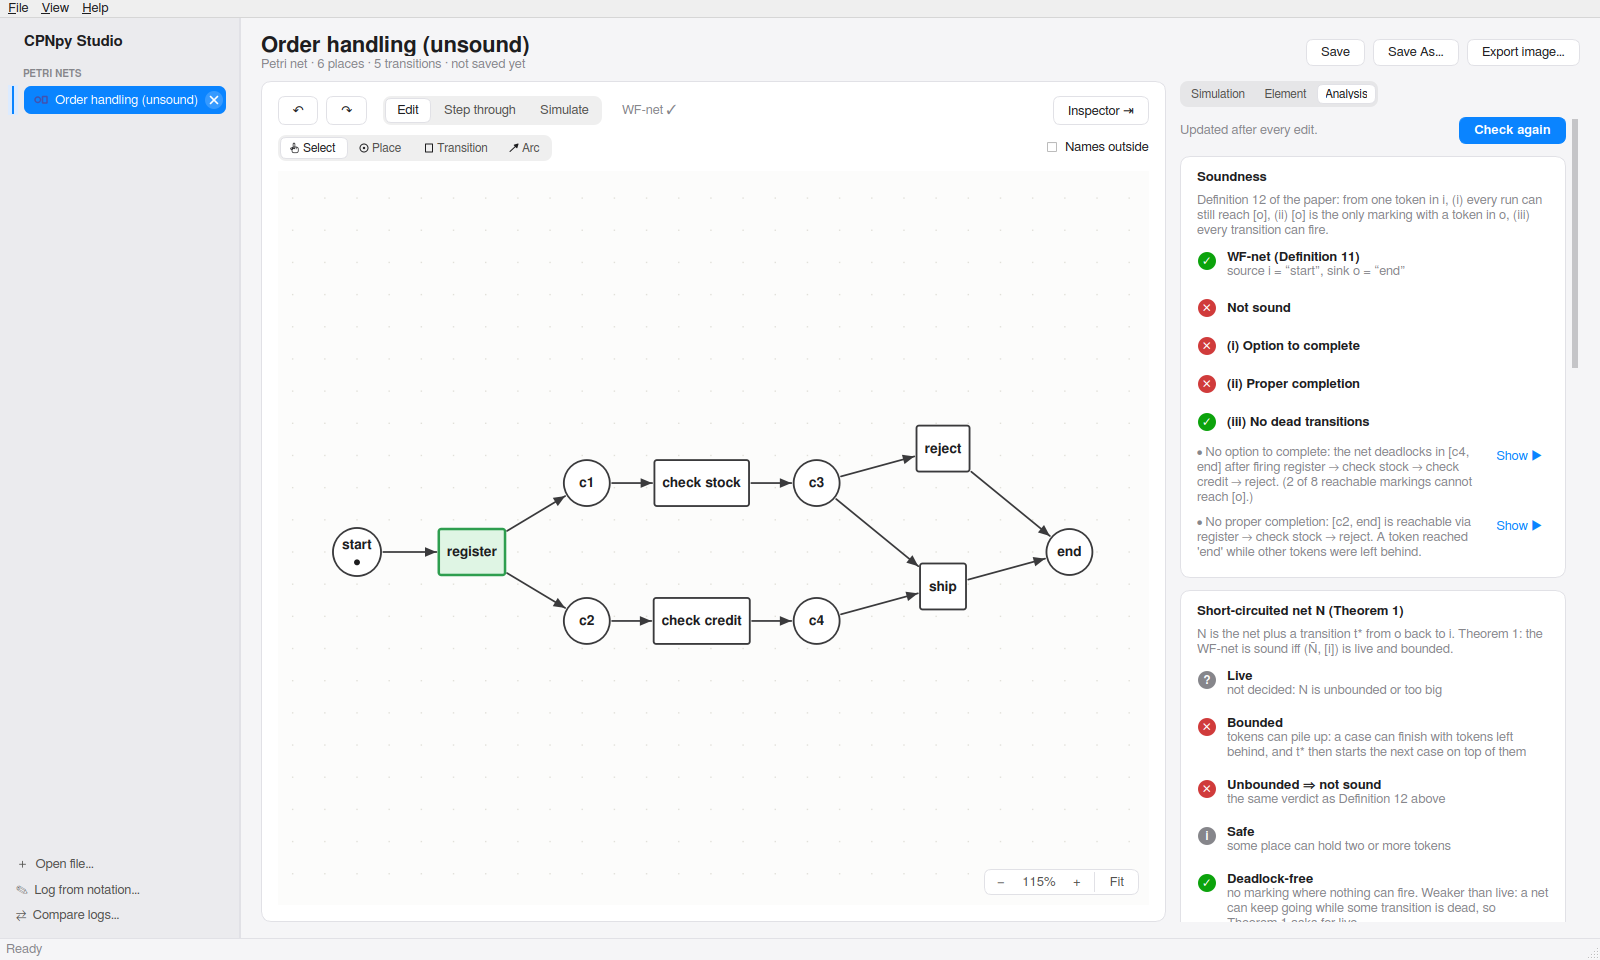
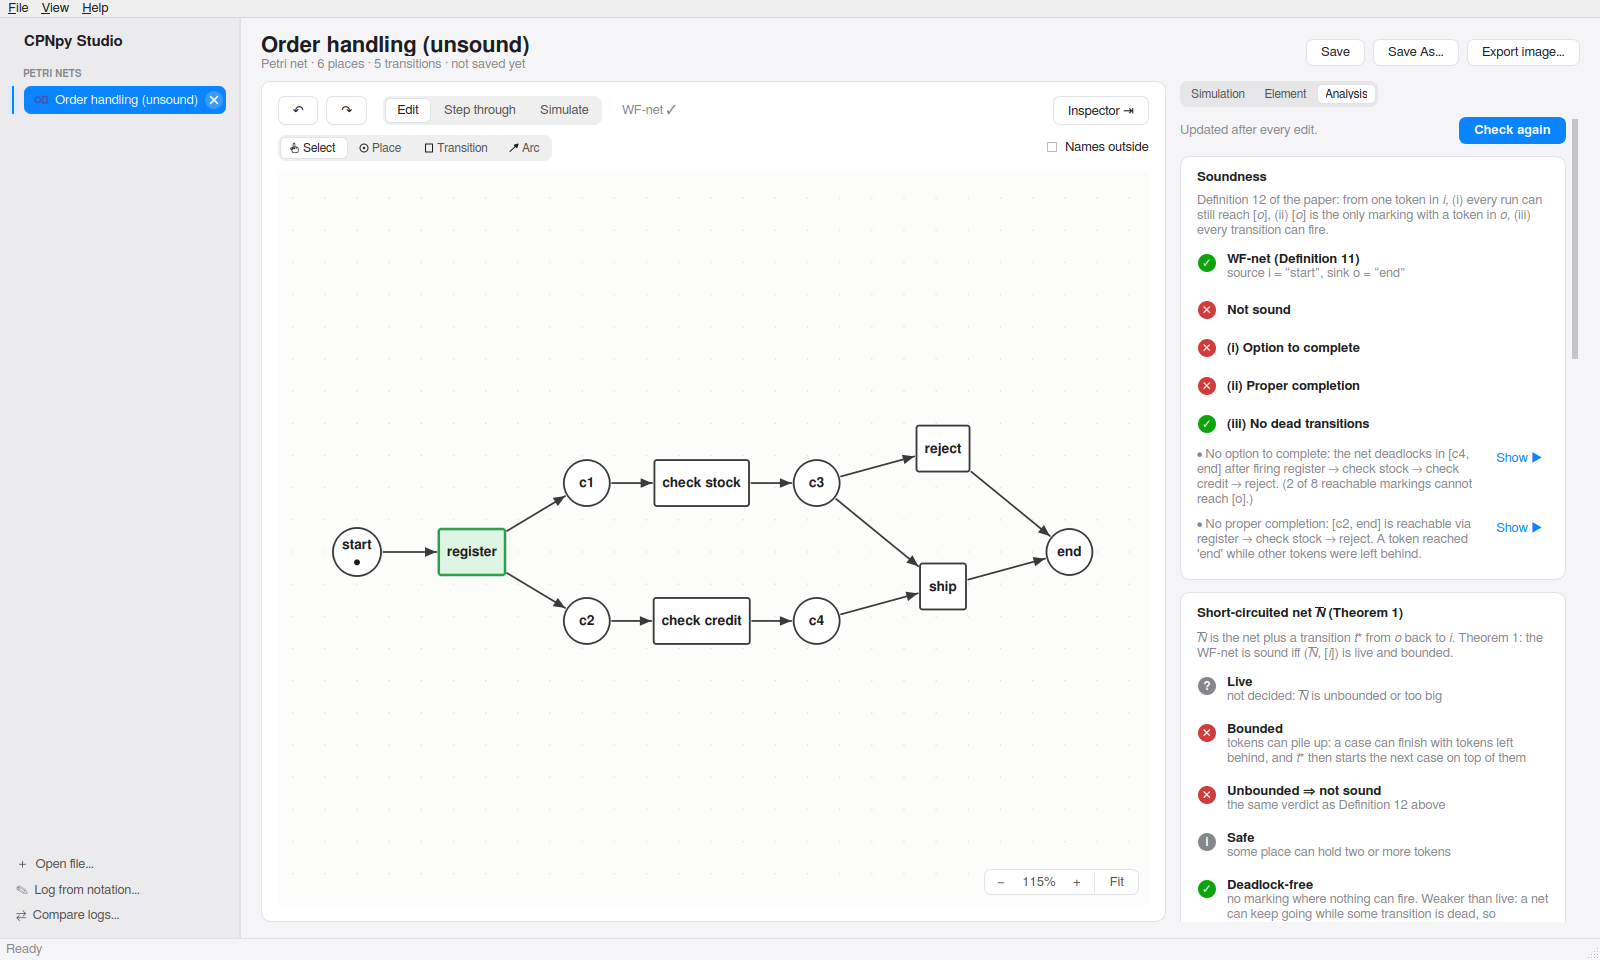
Fainter hover arrow and drag line; proper notation for the short-circuited net
Claude-Session: https://claude.ai/code/session_01JxJXgMYnfAeBr8fJ4b9yo4

Changed region(s): [[0.75, 0.625, 0.9688, 0.9688], [0.75, 0.2188, 0.9688, 0.5938]]

diff --git a/cpnpy/gui/studio/petri_page.py b/cpnpy/gui/studio/petri_page.py
@@ -24,6 +24,7 @@ The net is saved as PNML, the standard format ProM, WoPeD and PM4Py read.
 
 from __future__ import annotations
 
+from html import escape
 from pathlib import Path
 
 from PySide6.QtCore import Qt, QTimer, Signal
@@ -44,6 +45,18 @@ from .widgets import (
     Card, Verdict, button, flow, footprint_table, hbox, label, status_for,
 )
 from .workers import run_in_background
+
+# The paper's notation, as Qt rich text (labels detect the tags by themselves).
+# N̄ with a combining macron renders badly in many fonts, so the bar is a real
+# overline over an italic N.
+NBAR = '<span style="text-decoration: overline"><i>N</i></span>'
+TSTAR = "<i>t</i>*"
+I, O = "<i>i</i>", "<i>o</i>"
+
+
+def _math(name: str, status: str, detail: str) -> "Verdict":
+    """A Verdict whose detail is rich text (names in it must be escaped)."""
+    return Verdict(name, status, f"<span>{detail}</span>")
 
 
 class PetriNetPage(CpnPage):
@@ -264,14 +277,14 @@ class PetriNetPage(CpnPage):
                                               "you open this tab after an edit")
         layout.addLayout(hbox(label("Updated after every edit.", "muted"), None,
                               self.analysis_button))
-        self.soundness_card = Card("Soundness", "Definition 12 of the paper: from one token "
-                                   "in i, (i) every run can still reach [o], (ii) [o] is the "
-                                   "only marking with a token in o, (iii) every transition "
-                                   "can fire.")
-        self.theorem_card = Card("Short-circuited net N̄ (Theorem 1)",
-                                 "N̄ is the net plus a transition t* from o back to i. "
-                                 "Theorem 1: the WF-net is sound iff (N̄, [i]) is live and "
-                                 "bounded.")
+        self.soundness_card = Card("Soundness", f"Definition 12 of the paper: from one token "
+                                   f"in {I}, (i) every run can still reach [{O}], (ii) [{O}] "
+                                   f"is the only marking with a token in {O}, (iii) every "
+                                   "transition can fire.")
+        self.theorem_card = Card(f"Short-circuited net {NBAR} (Theorem 1)",
+                                 f"{NBAR} is the net plus a transition {TSTAR} from {O} back "
+                                 f"to {I}. Theorem 1: the WF-net is sound iff ({NBAR}, [{I}]) "
+                                 "is live and bounded.")
         self.structure_card = Card("Structure (§6)", "Properties of the drawing alone. They "
                                    "point at the construct behind a problem.")
         self.properties_card = Card("Behavioural properties", "Of the net as drawn, from "
@@ -386,9 +399,10 @@ class PetriNetPage(CpnPage):
             if name == "Deadlock-free" and only_final:
                 # A WF-net always stops in [o]: that is the case finishing.
                 self.properties_card.add(Verdict(
-                    name, "info", f"the only dead marking is [{self._plain(workflow.sink)}]: "
-                    "the case has finished. Every WF-net stops there, so this is expected; "
-                    "N̄ above shows whether it can get stuck anywhere else."))
+                    name, "info", "the only dead marking is "
+                    f"[{escape(self._plain(workflow.sink))}]: the case has finished. Every "
+                    f"WF-net stops there, so this is expected; {NBAR} above shows whether it "
+                    "can get stuck anywhere else."))
                 continue
             self.properties_card.add(Verdict(name, status_for(value), detail))
         self.properties_card.add(label(
@@ -422,7 +436,7 @@ class PetriNetPage(CpnPage):
         return node.name if node else (node_id or "?")
 
     def _show_theorem(self, soundness) -> None:
-        """Theorem 1: (N̄, [i]) live and bounded ⇔ sound."""
+        """Theorem 1: (N̄, [i]) live and bounded iff sound."""
         card = self.theorem_card
         closed = soundness.short_circuit
         if closed is None:
@@ -431,45 +445,47 @@ class PetriNetPage(CpnPage):
         graph = closed.properties.graph
         net = closed.net
         live = closed.live
-        not_live = [net.node_name(t) for t in closed.not_live]
-        card.add(Verdict("Live", status_for(live),
-                         "from every reachable marking, every transition (t* too) can "
+        not_live = [TSTAR if t == "t_star" else escape(net.node_name(t))
+                    for t in closed.not_live]
+        card.add(_math("Live", status_for(live),
+                         f"from every reachable marking, every transition ({TSTAR} too) can "
                          "fire again" if live else
-                         ("not decided: N̄ is unbounded or too big" if live is None else
+                         (f"not decided: {NBAR} is unbounded or too big" if live is None else
                           "can never fire again at some point: " + ", ".join(not_live))))
-        card.add(Verdict("Bounded", status_for(closed.bounded),
+        card.add(_math("Bounded", status_for(closed.bounded),
                          f"at most {int(closed.properties.bound)} token(s) per place"
                          if closed.bounded else
                          "tokens can pile up: a case can finish with tokens left behind, "
-                         "and t* then starts the next case on top of them"))
+                         f"and {TSTAR} then starts the next case on top of them"))
         theorem = closed.sound
-        card.add(Verdict("Live and bounded ⇒ sound" if theorem else
+        card.add(_math("Live and bounded ⇒ sound" if theorem else
                          ("Unbounded ⇒ not sound" if not closed.bounded else
                           "Not live ⇒ not sound" if theorem is False else "Undecided"),
                          status_for(theorem),
                          "the same verdict as Definition 12 above" if theorem ==
                          soundness.sound else "differs from Definition 12 (a state-space "
                          "limit was hit)"))
-        card.add(Verdict("Safe", "good" if closed.safe else "info",
+        card.add(_math("Safe", "good" if closed.safe else "info",
                          "at most one token per place (Lemmas 1 and 3: a sound free-choice "
                          "or well-structured net is always safe)" if closed.safe else
                          "some place can hold two or more tokens"))
         dead = closed.properties.dead_markings
-        card.add(Verdict("Deadlock-free", "good" if not dead else "info",
+        card.add(_math("Deadlock-free", "good" if not dead else "info",
                          "no marking where nothing can fire. Weaker than live: a net can "
                          "keep going while some transition is dead, so Theorem 1 asks for "
                          "live" if not dead else
-                         f"stuck in {graph.states[dead[0]].describe(net)}; a deadlock is "
+                         f"stuck in {escape(graph.states[dead[0]].describe(net))}; a deadlock is "
                          "never live, so this alone already means not sound"))
         for transition, state in list(closed.not_live.items())[:4]:
             path = graph.path_to(state)
             usable = "t_star" not in path
-            self._finding(card, f"{net.node_name(transition)} can never fire again after "
-                          f"{graph.describe_path(state)} (marking "
-                          f"{graph.states[state].describe(net)}).",
+            who = TSTAR if transition == "t_star" else escape(net.node_name(transition))
+            self._finding(card, f"<span>{who} can never fire again after "
+                          f"{escape(graph.describe_path(state))} (marking "
+                          f"{escape(graph.states[state].describe(net))}).</span>",
                           path if usable else None, soundness.workflow.source)
-        card.add(flow(button("Open N̄ as a new net", self._open_short_circuited,
-                             tooltip="Draw the short-circuited net in a new tab")))
+        card.add(flow(button("Open the short-circuited net", self._open_short_circuited,
+                             tooltip="Draw the net with t* added, in a new tab")))
 
     def _open_short_circuited(self) -> None:
         from ...mining.analysis import short_circuit
@@ -493,23 +509,24 @@ class PetriNetPage(CpnPage):
         name = self._plain
 
         def node(prefixed: str) -> str:
-            return "t*" if prefixed == "t:t_star" else name(prefixed[2:])
+            return TSTAR if prefixed == "t:t_star" else escape(name(prefixed[2:]))
 
         if report.is_free_choice:
             detail = ("transitions that share an input place have the same input places, "
                       "so every choice is free (Corollary 1)")
         else:
             t1, t2, p = report.free_choice[0]
-            detail = (f"{name(t1)} and {name(t2)} share {name(p)} but need different input "
+            detail = (f"{escape(name(t1))} and {escape(name(t2))} share {escape(name(p))} but "
+                      "need different input "
                       "places, so the choice between them depends on what happened "
                       "elsewhere (Definition 7)")
-        card.add(Verdict("Free-choice", "good" if report.is_free_choice else "info", detail))
+        card.add(_math("Free-choice", "good" if report.is_free_choice else "info", detail))
 
         well = report.well_structured
         if well is None:
             detail = "not checked (the net is very large)"
         elif well:
-            detail = ("N̄ has no handles: every AND-split is closed by an AND-join and every "
+            detail = (f"{NBAR} has no handles: every AND-split is closed by an AND-join and every "
                       "OR-split by an OR-join (Definition 14)")
         else:
             handle = report.handles[0]
@@ -520,25 +537,26 @@ class PetriNetPage(CpnPage):
                       f"{node(handle.end)}: {kind}. Paths "
                       + " and ".join("⟨" + ", ".join(node(n) for n in path) + "⟩"
                                      for path in handle.paths))
-        card.add(Verdict("Well-structured", "unknown" if well is None else
+        card.add(_math("Well-structured", "unknown" if well is None else
                          ("good" if well else "info"), detail))
 
         cover = report.s_coverable
         if cover is None:
             detail = "not decided (search limit reached)"
         elif cover:
-            detail = (f"{len(report.coverage.components)} S-component(s) cover N̄: each is "
+            detail = (f"{len(report.coverage.components)} S-component(s) cover {NBAR}: each is "
                       "a 'thread' that is always in exactly one place (Definition 16)")
         else:
-            missing = ", ".join("t*" if n == "t_star" else name(n)
+            missing = ", ".join(TSTAR if n == "t_star" else escape(name(n))
                                 for n in report.coverage.uncovered[:6])
             detail = (f"no S-component contains {missing}. In the paper every WF-net that is "
                       "not S-coverable is unsound — worth a close look (§6.3)")
-        card.add(Verdict("S-coverable", "unknown" if cover is None else
+        card.add(_math("S-coverable", "unknown" if cover is None else
                          ("good" if cover else "warning"), detail))
         for transition in report.lemma4:
-            self._finding(card, f"Lemma 4: {name(transition)} needs i or o together with "
-                          "another place, which never happens in a sound net — it is dead.")
+            self._finding(card, f"<span>Lemma 4: {escape(name(transition))} needs {I} or "
+                          f"{O} together with another place, which never happens in a sound "
+                          "net — it is dead.</span>")
         if soundness.sound and (report.is_free_choice or well):
             self._finding(card, "Sound and " + ("free-choice" if report.is_free_choice
                                                 else "well-structured")

diff --git a/cpnpy/gui/canvas.py b/cpnpy/gui/canvas.py
@@ -86,7 +86,7 @@ class _ConnectHandle(QGraphicsPathItem):
 
     def set_hot(self, hot: bool) -> None:
         """Mouse on the handle: fully visible and a little larger."""
-        self.setOpacity(0.95 if hot else 0.55)
+        self.setOpacity(0.7 if hot else 0.3)
         self.setScale(1.15 if hot else 1.0)
 
     def shape(self) -> QPainterPath:
@@ -690,6 +690,7 @@ class NetScene(QGraphicsScene):
         pen = QPen(theme.palette().accent, 1.6, Qt.DashLine)
         pen.setCosmetic(True)
         line.setPen(pen)
+        line.setOpacity(0.55)                  # a hint, not a wall over the drawing
         line.setZValue(40)
         self.addItem(line)
         line.setLine(node.pos().x(), node.pos().y(), position.x(), position.y())
